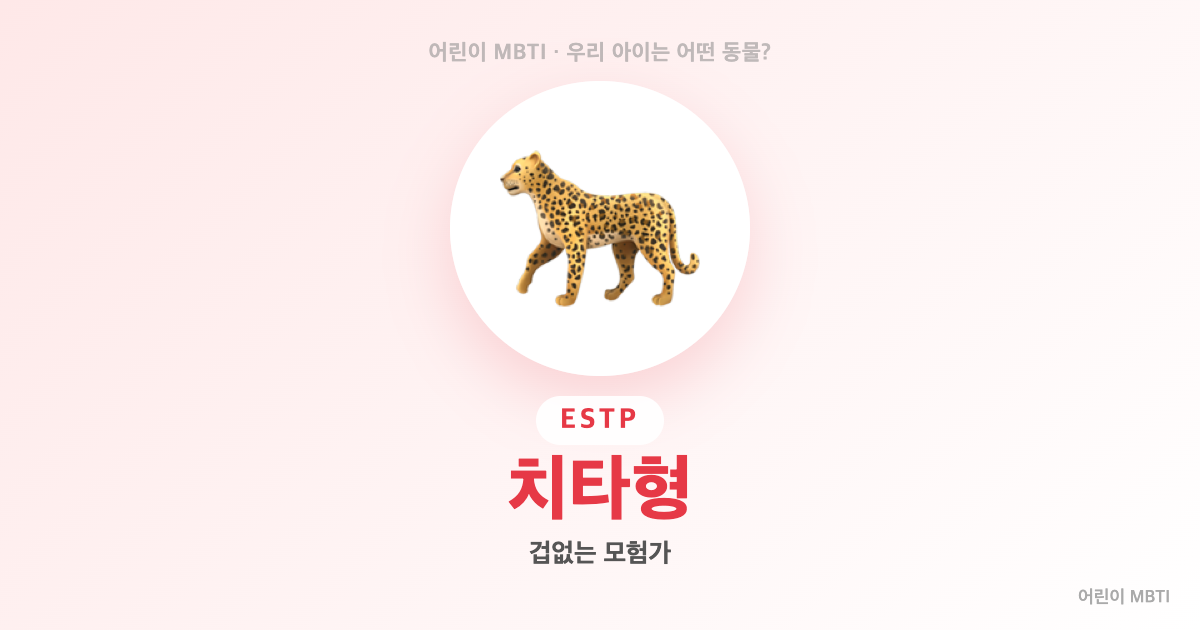
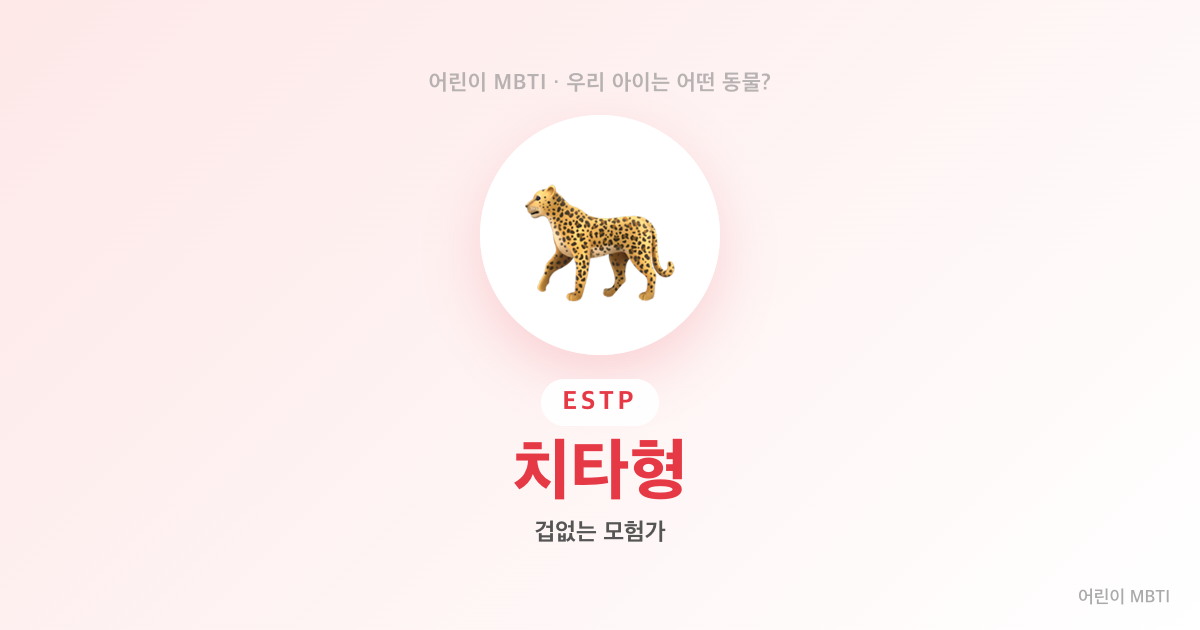
OG 동물 dead-center + 메타 절대경로 + 질문 페이지 공유 + 크로스 플랫폼
1. og_template.html 동물 더 작게(240×240, 이모지 150px) 가로/세로 dead-center
2. 기본 OG 이모지 64px·간격 조정으로 잘림 방지
3. og:url / og:image 를 절대경로(canonical)로 정적 메타 추가
   · og:image:width/height/site_name/locale/twitter:card 추가
4. 질문 화면 하단에 작은 카카오 공유 버튼 추가 (이전 문항 링크 아래)
5. viewport-fit=cover, theme-color, format-detection=no
   · safe-area-inset(top/bottom/left/right) padding
   · -webkit-tap-highlight-color: transparent
   · -webkit-font-smoothing, text-rendering optimizeLegibility
   · button touch-action: manipulation + -webkit-appearance 리셋
   · @media 768px/1024px body font-size 상향
   · 100dvh 폴백, overscroll-behavior-y: none

Changed region(s): [[0.37, 0.2413, 0.6167, 0.9048], [0.3392, 0.0603, 0.6475, 0.1508]]

diff --git a/og_template.html b/og_template.html
@@ -9,6 +9,10 @@
   body {
     font-family: "Apple SD Gothic Neo", "Nanum Gothic", system-ui, sans-serif;
     color: #2D2D2D;
+    -webkit-font-smoothing: antialiased;
+  }
+  .emoji {
+    font-family: "Apple Color Emoji", "Segoe UI Emoji", "Noto Color Emoji", "Twemoji Mozilla", system-ui, sans-serif;
   }
   .card {
     width: 1200px; height: 630px;
@@ -16,34 +20,39 @@
     background: var(--bg);
     display: flex; flex-direction: column;
     align-items: center; justify-content: center;
-    padding: 40px 40px 60px;
+    padding: 36px 60px 50px;
     text-align: center;
   }
-  /* per-type layout — 동물 중앙 정렬 */
+
+  /* per-type layout — 동물 dead-center, 작게 */
   .label {
-    font-size: 22px; color: #88888888; font-weight: 700;
-    letter-spacing: 0.5px; margin-bottom: 14px;
+    font-size: 22px; color: #88888899; font-weight: 700;
+    letter-spacing: 0.5px; margin-bottom: 18px;
   }
   .circle {
-    width: 300px; height: 300px; border-radius: 50%;
+    width: 240px; height: 240px; border-radius: 50%;
     background: #ffffff;
     display: flex; align-items: center; justify-content: center;
-    font-size: 200px; line-height: 1;
-    box-shadow: 0 24px 64px var(--shadow), inset 0 0 0 6px rgba(255,255,255,0.6);
-    margin-bottom: 20px;
+    line-height: 1;
+    box-shadow: 0 20px 56px var(--shadow), inset 0 0 0 6px rgba(255,255,255,0.6);
+    margin-bottom: 24px;
+  }
+  .circle .e {
+    font-size: 150px; line-height: 1;
+    transform: translateY(2px);
   }
   .badge {
-    display: inline-block; padding: 8px 24px; border-radius: 28px;
+    display: inline-block; padding: 8px 22px; border-radius: 28px;
     background: #ffffffee; color: var(--accent);
-    font-size: 28px; font-weight: 800; letter-spacing: 4px;
-    margin-bottom: 12px;
+    font-size: 26px; font-weight: 800; letter-spacing: 4px;
+    margin-bottom: 14px;
   }
   .name {
-    font-size: 72px; color: var(--accent); font-weight: 800;
+    font-size: 68px; color: var(--accent); font-weight: 800;
     line-height: 1.0; margin-bottom: 10px;
   }
   .tag {
-    font-size: 26px; color: #555; font-weight: 700;
+    font-size: 24px; color: #555; font-weight: 700;
   }
   .footer {
     position: absolute; bottom: 22px; right: 30px;
@@ -52,27 +61,30 @@
 
   /* default mode (no type) */
   body.default .card {
-    display: block; padding: 70px 80px;
+    padding: 70px 80px;
     background: linear-gradient(135deg, #FFE5EC 0%, #FFEDD5 50%, #E9ECFF 100%);
+    justify-content: center;
   }
   body.default .title {
-    font-size: 76px; font-weight: 800; color: #2D2D2D;
-    margin-bottom: 14px; letter-spacing: -1px;
+    font-size: 64px; font-weight: 800; color: #2D2D2D;
+    margin-bottom: 12px; letter-spacing: -1px;
   }
   body.default .subtitle {
-    font-size: 30px; color: #666; font-weight: 700;
-    margin-bottom: 36px;
+    font-size: 26px; color: #666; font-weight: 700;
+    margin-bottom: 32px;
   }
   body.default .grid {
     display: grid;
     grid-template-columns: repeat(8, 1fr);
-    gap: 12px;
-    font-size: 80px; line-height: 1;
-    text-align: center;
+    column-gap: 4px; row-gap: 10px;
+    font-size: 64px; line-height: 1;
+    width: 880px; max-width: 100%;
+    margin: 0 auto;
   }
+  body.default .grid span { display: inline-block; line-height: 1; }
   body.default .desc {
-    font-size: 26px; color: #555; font-weight: 600;
-    margin-top: 32px; line-height: 1.5;
+    font-size: 22px; color: #777; font-weight: 600;
+    margin-top: 28px; line-height: 1.5;
   }
 </style>
 </head>
@@ -104,12 +116,12 @@ const type = params.get("type");
 const card = document.getElementById("card");
 
 if (!type || !CHARS[type]) {
-  // 기본 OG 카드 (테스트 공유용)
+  // 기본 OG (테스트 공유용)
   document.body.classList.add("default");
   card.innerHTML = `
     <div class="title">🌟 어린이 MBTI</div>
     <div class="subtitle">우리 아이는 어떤 동물일까?</div>
-    <div class="grid">
+    <div class="grid emoji">
       <span>🦁</span><span>🦜</span><span>🦅</span><span>🦊</span><span>🐶</span><span>🐬</span><span>🦫</span><span>🐆</span>
       <span>🦉</span><span>🐱</span><span>🐙</span><span>🦝</span><span>🐰</span><span>🐼</span><span>🐢</span><span>🦔</span>
     </div>
@@ -122,7 +134,7 @@ if (!type || !CHARS[type]) {
   document.documentElement.style.setProperty("--shadow", c.color + "30");
   card.innerHTML = `
     <div class="label">어린이 MBTI · 우리 아이는 어떤 동물?</div>
-    <div class="circle">${c.emoji}</div>
+    <div class="circle"><span class="e emoji">${c.emoji}</span></div>
     <div class="badge">${type}</div>
     <div class="name">${c.name}형</div>
     <div class="tag">${c.tag}</div>

diff --git a/index.html b/index.html
@@ -2,13 +2,20 @@
 <html lang="ko">
 <head>
 <meta charset="UTF-8" />
-<meta name="viewport" content="width=device-width, initial-scale=1.0" />
+<meta name="viewport" content="width=device-width, initial-scale=1.0, viewport-fit=cover" />
+<meta name="theme-color" content="#FF6B9D" />
+<meta name="format-detection" content="telephone=no" />
 <title>어린이 MBTI 테스트 · 우리 아이는 어떤 동물?</title>
 <meta property="og:title" content="어린이 MBTI · 우리 아이는 어떤 동물?" />
 <meta property="og:description" content="5~13세 아이의 성격을 16가지 동물 캐릭터로 알려드려요" />
 <meta property="og:type" content="website" />
-<meta property="og:url" content="" />
-<meta property="og:image" content="" />
+<meta property="og:url" content="https://child-mbti-preview-jh.netlify.app/?go=1" />
+<meta property="og:image" content="https://child-mbti-preview-jh.netlify.app/og-image.png" />
+<meta property="og:image:width" content="1200" />
+<meta property="og:image:height" content="630" />
+<meta property="og:site_name" content="어린이 MBTI" />
+<meta property="og:locale" content="ko_KR" />
+<meta name="twitter:card" content="summary_large_image" />
 <!-- Google tag (gtag.js) -->
 <script async src="https://www.googletagmanager.com/gtag/js?id=G-HFQCEBY2PW"></script>
 <script>
@@ -372,8 +379,44 @@ function ChildMBTI() {
 
     const style = document.createElement("style");
     style.textContent = `
-      * { box-sizing: border-box; }
-      body { margin: 0; background: linear-gradient(135deg, #FFF5EC 0%, #FFF0F8 50%, #F0EFFF 100%); min-height: 100vh; }
+      * {
+        box-sizing: border-box;
+        -webkit-tap-highlight-color: transparent;
+      }
+      html { -webkit-text-size-adjust: 100%; text-size-adjust: 100%; }
+      body {
+        margin: 0;
+        background: linear-gradient(135deg, #FFF5EC 0%, #FFF0F8 50%, #F0EFFF 100%);
+        min-height: 100vh;
+        min-height: 100dvh;
+        padding-top: env(safe-area-inset-top);
+        padding-bottom: env(safe-area-inset-bottom);
+        padding-left: env(safe-area-inset-left);
+        padding-right: env(safe-area-inset-right);
+        -webkit-font-smoothing: antialiased;
+        -moz-osx-font-smoothing: grayscale;
+        text-rendering: optimizeLegibility;
+        overscroll-behavior-y: none;
+      }
+      button {
+        -webkit-appearance: none;
+        appearance: none;
+        touch-action: manipulation;
+        -webkit-user-select: none;
+        user-select: none;
+      }
+      input, textarea {
+        -webkit-appearance: none;
+        appearance: none;
+        font-family: inherit;
+      }
+      /* 데스크탑 큰 화면에서 카드 여유 */
+      @media (min-width: 768px) {
+        body { font-size: 17px; }
+      }
+      @media (min-width: 1024px) {
+        body { font-size: 18px; }
+      }
       input[type=range] { -webkit-appearance: none; appearance: none; width: 100%; height: 52px; background: transparent; cursor: pointer; }
       input[type=range]::-webkit-slider-runnable-track { height: 8px; border-radius: 4px; background: #E8E8E8; }
       input[type=range]::-webkit-slider-thumb { -webkit-appearance: none; width: 44px; height: 44px; border-radius: 50%; background: linear-gradient(135deg, #7C3AED, #4F46E5); border: 3px solid white; box-shadow: 0 4px 12px rgba(124,58,237,0.4); margin-top: -18px; }
@@ -1006,6 +1049,19 @@ function ChildMBTI() {
               >← 이전 문항으로 돌아가기</button>
             </div>
           )}
+
+          {/* 질문 페이지 하단 — 테스트 공유 */}
+          <div style={{ display: "flex", justifyContent: "center", marginTop: "18px" }}>
+            <button onClick={kakaoShareTest} style={{
+              display: "flex", alignItems: "center", justifyContent: "center", gap: "6px",
+              padding: "10px 18px", borderRadius: "12px", border: "none",
+              background: "#FEE500", color: "#000000d9",
+              fontSize: "13px", fontWeight: 800, fontFamily: "inherit", cursor: "pointer",
+              boxShadow: "0 3px 10px rgba(254,229,0,0.30)",
+            }}>
+              <span style={{ fontSize: "15px" }}>💬</span> 친구에게 테스트 공유
+            </button>
+          </div>
         </div>
       </div>
     );

diff --git a/child-mbti.jsx b/child-mbti.jsx
@@ -331,8 +331,44 @@ export default function ChildMBTI() {
 
     const style = document.createElement("style");
     style.textContent = `
-      * { box-sizing: border-box; }
-      body { margin: 0; background: linear-gradient(135deg, #FFF5EC 0%, #FFF0F8 50%, #F0EFFF 100%); min-height: 100vh; }
+      * {
+        box-sizing: border-box;
+        -webkit-tap-highlight-color: transparent;
+      }
+      html { -webkit-text-size-adjust: 100%; text-size-adjust: 100%; }
+      body {
+        margin: 0;
+        background: linear-gradient(135deg, #FFF5EC 0%, #FFF0F8 50%, #F0EFFF 100%);
+        min-height: 100vh;
+        min-height: 100dvh;
+        padding-top: env(safe-area-inset-top);
+        padding-bottom: env(safe-area-inset-bottom);
+        padding-left: env(safe-area-inset-left);
+        padding-right: env(safe-area-inset-right);
+        -webkit-font-smoothing: antialiased;
+        -moz-osx-font-smoothing: grayscale;
+        text-rendering: optimizeLegibility;
+        overscroll-behavior-y: none;
+      }
+      button {
+        -webkit-appearance: none;
+        appearance: none;
+        touch-action: manipulation;
+        -webkit-user-select: none;
+        user-select: none;
+      }
+      input, textarea {
+        -webkit-appearance: none;
+        appearance: none;
+        font-family: inherit;
+      }
+      /* 데스크탑 큰 화면에서 카드 여유 */
+      @media (min-width: 768px) {
+        body { font-size: 17px; }
+      }
+      @media (min-width: 1024px) {
+        body { font-size: 18px; }
+      }
       input[type=range] { -webkit-appearance: none; appearance: none; width: 100%; height: 52px; background: transparent; cursor: pointer; }
       input[type=range]::-webkit-slider-runnable-track { height: 8px; border-radius: 4px; background: #E8E8E8; }
       input[type=range]::-webkit-slider-thumb { -webkit-appearance: none; width: 44px; height: 44px; border-radius: 50%; background: linear-gradient(135deg, #7C3AED, #4F46E5); border: 3px solid white; box-shadow: 0 4px 12px rgba(124,58,237,0.4); margin-top: -18px; }
@@ -965,6 +1001,19 @@ export default function ChildMBTI() {
               >← 이전 문항으로 돌아가기</button>
             </div>
           )}
+
+          {/* 질문 페이지 하단 — 테스트 공유 */}
+          <div style={{ display: "flex", justifyContent: "center", marginTop: "18px" }}>
+            <button onClick={kakaoShareTest} style={{
+              display: "flex", alignItems: "center", justifyContent: "center", gap: "6px",
+              padding: "10px 18px", borderRadius: "12px", border: "none",
+              background: "#FEE500", color: "#000000d9",
+              fontSize: "13px", fontWeight: 800, fontFamily: "inherit", cursor: "pointer",
+              boxShadow: "0 3px 10px rgba(254,229,0,0.30)",
+            }}>
+              <span style={{ fontSize: "15px" }}>💬</span> 친구에게 테스트 공유
+            </button>
+          </div>
         </div>
       </div>
     );
